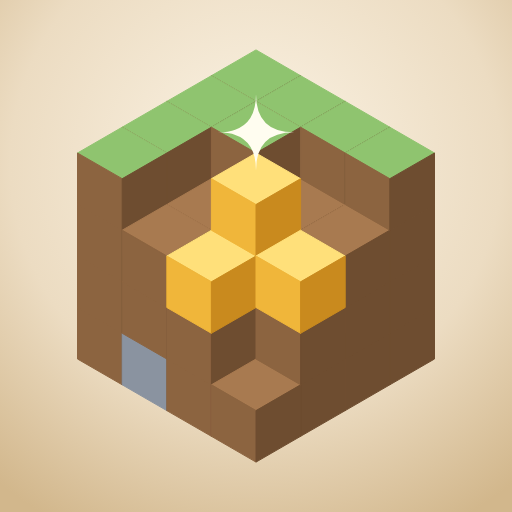
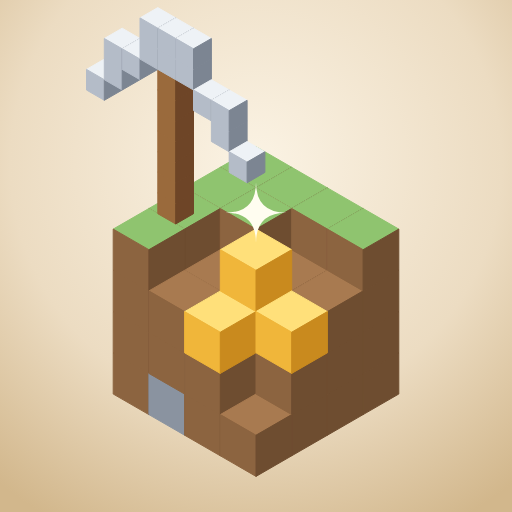
Dig Zen 1.2.1 : l'icône ne disait pas qu'on creuse
Un bloc de terre et de l'or : personne ne devinait le jeu. Une pioche en cubes,
plantée dans l'herbe au-dessus du bloc. Tout en cubes comme le jeu : la version
dessinée au trait a été refusée. Arcade 1.5.1 pour que la tuile la reprenne.

diff --git a/dig/icone.html b/dig/icone.html
@@ -2,13 +2,15 @@
 <html lang="fr"><head><meta charset="utf-8"><title>Dig Zen : l'icône</title>
 <style>body{margin:0;background:#888;display:flex;gap:40px;padding:20px}.icone,.masquable{width:512px;height:512px;flex:none}</style></head>
 <body>
-<!-- L'icône : un bloc de terre entamé, et l'or d'une trouvaille qui dépasse. Photographiée par tools/dig-icones.mjs. -->
+<!-- L'icône : un bloc de terre entamé, l'or d'une trouvaille qui dépasse, et la pioche plantée dans l'herbe.
+     ⚠ Tout est en CUBES, comme le jeu : une pioche dessinée au trait a été refusée (« ne matche pas avec le jeu »). Photographiée par tools/dig-icones.mjs. -->
 <div class="icone"></div><div class="masquable"></div>
 <script>
 // des cubes en perspective isométrique, dessinés du fond vers l'avant
 const TERRE = ['#a87a50', '#8c6440', '#6e4d30'], HERBE = ['#8fc46f', '#8c6440', '#6e4d30'], OR = ['#ffe07a', '#f0b63a', '#c98a1e'], ROCHE = ['#aab2be', '#8a93a0', '#6b7480'];
 function dessin(echelle) {
-  const N = 4, u = 46 * echelle, ox = 256, oy = 256 + N * u;      // le bloc tient entre oy - 2N·u et oy : on le centre
+  echelle *= 0.8;                    // le bloc laisse de la place à la pioche, au-dessus
+  const N = 4, u = 46 * echelle, ox = 256, oy = 256 + N * u + 62 * echelle;      // le bloc tient entre oy - 2N·u et oy : on le centre
   const pt = (x, y, z) => [ox + (x - z) * u * 0.866, oy - N * u - y * u + (x + z) * u * 0.5];
   const cubes = [];
   for (let x = 0; x < N; x++) for (let y = 0; y < N; y++) for (let z = 0; z < N; z++) {
@@ -18,13 +20,19 @@ function dessin(echelle) {
     if (creux && !or) continue;
     cubes.push({ x, y, z, c: or ? OR : y === N - 1 ? HERBE : (x * 7 + y * 3 + z * 5) % 11 === 0 ? ROCHE : TERRE });
   }
-  cubes.sort((a, b) => (a.x + a.z + a.y) - (b.x + b.z + b.y));
+  // la pioche, en demi-cubes : le manche planté dans l'herbe, le fer le long d'un axe pour que ses cubes se touchent
+  const BOISP = ['#c99a62', '#9a6a3c', '#6e4527'], FER = ['#eef2f6', '#b4bcc8', '#7c8592'], px = 0.25, pz = 2.5;
+  for (let k = 0; k < 7; k++) cubes.push({ x: px, y: 4 + k * 0.5, z: pz, t: 0.5, c: BOISP });
+  for (let k = -4; k <= 4; k++) { const a = Math.abs(k), bas = a === 4 ? 1.5 : a === 3 ? 1 : a === 2 ? 0.5 : 0;
+    cubes.push({ x: px + k * 0.5, y: 7.5 - bas, z: pz, t: 0.5, c: FER }); if (a <= 1) cubes.push({ x: px + k * 0.5, y: 8, z: pz, t: 0.5, c: FER }); if (a === 3) cubes.push({ x: px + k * 0.5, y: 7, z: pz, t: 0.5, c: FER }); }
+  const fond = (q) => q.x + q.z + q.y + (q.t || 1) * 1.5;      // le centre du cube : on peint du fond vers l'avant
+  cubes.sort((a, b) => fond(a) - fond(b));
   const poly = (p, c) => `<polygon points="${p.map((q) => q.map((n) => n.toFixed(1)).join(',')).join(' ')}" fill="${c}" stroke="${c}" stroke-width="1"/>`;
   let s = '';
-  for (const { x, y, z, c } of cubes) {
-    s += poly([pt(x, y + 1, z), pt(x + 1, y + 1, z), pt(x + 1, y + 1, z + 1), pt(x, y + 1, z + 1)], c[0]);
-    s += poly([pt(x, y + 1, z + 1), pt(x + 1, y + 1, z + 1), pt(x + 1, y, z + 1), pt(x, y, z + 1)], c[1]);
-    s += poly([pt(x + 1, y + 1, z), pt(x + 1, y + 1, z + 1), pt(x + 1, y, z + 1), pt(x + 1, y, z)], c[2]);
+  for (const { x, y, z, c, t = 1 } of cubes) {
+    s += poly([pt(x, y + t, z), pt(x + t, y + t, z), pt(x + t, y + t, z + t), pt(x, y + t, z + t)], c[0]);
+    s += poly([pt(x, y + t, z + t), pt(x + t, y + t, z + t), pt(x + t, y, z + t), pt(x, y, z + t)], c[1]);
+    s += poly([pt(x + t, y + t, z), pt(x + t, y + t, z + t), pt(x + t, y, z + t), pt(x + t, y, z)], c[2]);
   }
   // l'éclat sur l'or
   const [ex, ey] = pt(2.5, 4.9, 2.5), r = 34 * echelle;

diff --git a/dig/sw.js b/dig/sw.js
@@ -4,7 +4,7 @@
    Trois chiffres, majeur.mineur.correctif (docs/dig-versions.md) : du nouveau =
    mineur, une correction = correctif. L'étagère l'affiche.
    tools/dig-pwa.mjs vérifie que SHELL contient tout ce que le jeu charge. */
-var VERSION = "dig-1.2.0";
+var VERSION = "dig-1.2.1";
 /* Tous nos jeux partagent l'origine replica-n8n.github.io, donc le même
    CacheStorage : le cache porte le nom du jeu et de sa portée, et l'activation ne
    supprime QUE les siens. */

diff --git a/sw.js b/sw.js
@@ -5,7 +5,7 @@
    SHELL (dont la liste des jeux de index.html).
    Trois chiffres, majeur.mineur.correctif (docs/arcade-versions.md) : du
    nouveau = mineur, une correction = correctif. */
-var VERSION = "arcade-1.5.0";
+var VERSION = "arcade-1.5.1";
 /* Tous nos jeux et apps partagent l'origine replica-n8n.github.io, donc le même
    CacheStorage : le cache porte le nom du jeu et de sa portée, et l'activation ne
    supprime QUE les siens. */

diff --git a/docs/dig-versions.md b/docs/dig-versions.md
@@ -13,3 +13,4 @@ en bas de l'étagère (« Version x.y.z »).
 | 1.0.0 | 2026-11-10 | Première version : la chaîne de Pompéi (amphore, villa, rue, ville) avec ses dézooms, le grand retour et la ville vivante en fin de chaîne, trois fouilles libres, l'étagère et ses vitrines, la boue qui brille pour finir à 100 %, installable et hors ligne |
 | 1.1.0 | 2026-11-10 | Deuxième chaîne : Dité, la cité de fer de l'Enfer de Dante (brasero, porte, rempart et champ de tombes, cité), avec sa fin en feu. L'étagère a un rayon par chaîne, et on passe d'une chaîne à l'autre quand on veut |
 | 1.2.0 | 2026-11-10 | Troisième chaîne : Tokyo (bol de ramen, échoppe, ruelle aux lanternes, quartier), avec sa fin de nuit aux néons et son train qui passe. |
+| 1.2.1 | 2026-11-10 | L'icône ne disait pas qu'on creuse : une pioche en cubes, plantée dans l'herbe au-dessus du bloc |

diff --git a/docs/arcade-versions.md b/docs/arcade-versions.md
@@ -24,3 +24,4 @@ augmenté à chaque publication. Correspondance, reconstruite d'après l'histori
 | 1.3.2 | | 2026-10-27 | Ghost Train devient Ghostel : son nom et sa nouvelle icône (l'hôtel et son enseigne au néon) |
 | 1.4.0 | | 2026-10-28 | Pastille « Update » sur un jeu qui a du nouveau depuis la dernière fois |
 | 1.5.0 | | 2026-11-10 | Dig Zen rejoint les jeux |
+| 1.5.1 | | 2026-11-10 | Nouvelle icône de Dig Zen, avec sa pioche |
